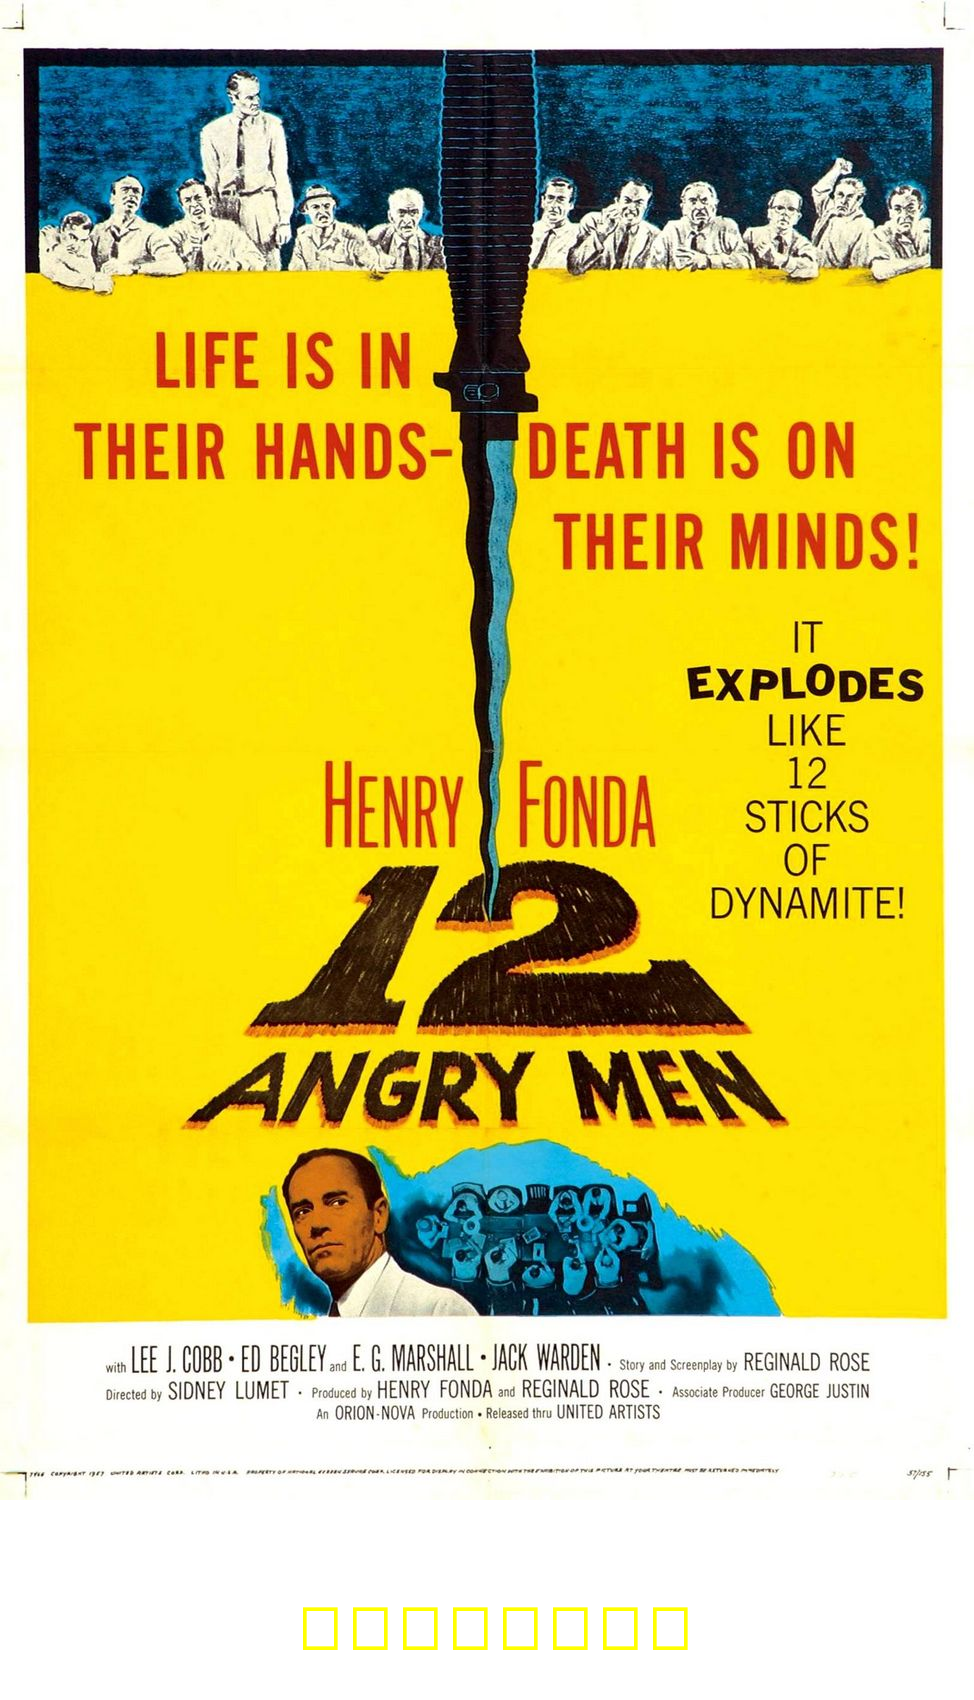
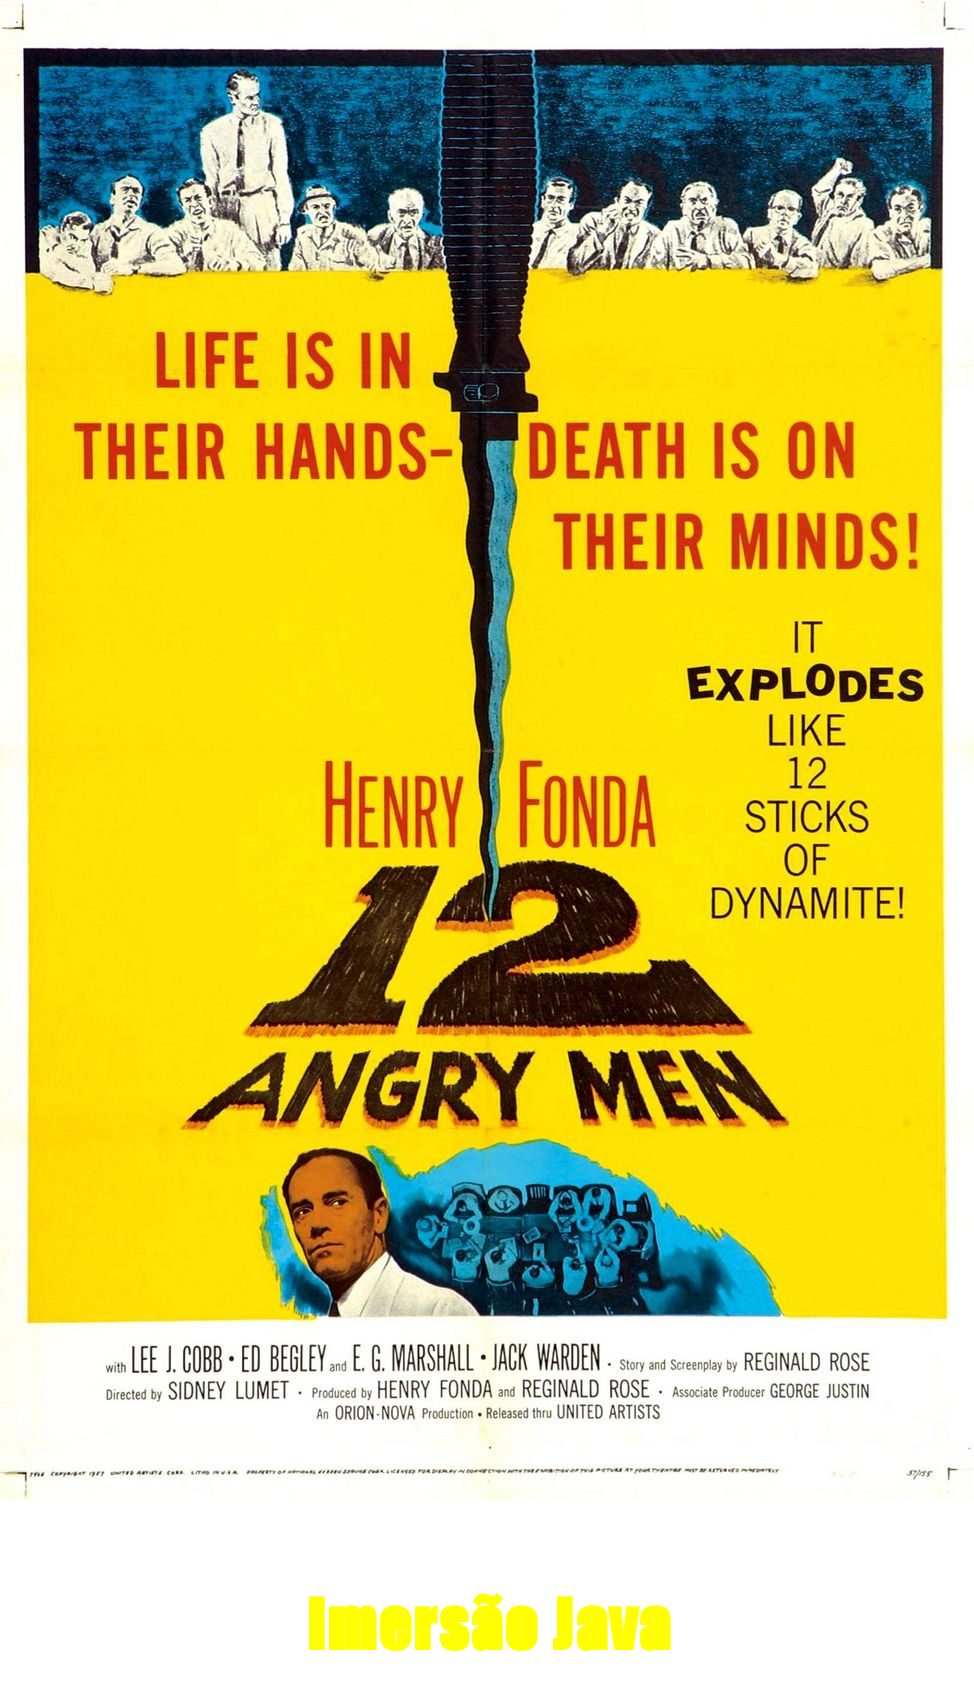
Aula 03 - Ligando as pontas, refatoração e orientação a objetos

Changed region(s): [[0.308, 0.9353, 0.7084, 0.9976]]

diff --git a/src/ImageGenaratorApp.java b/src/ImageGenaratorApp.java
@@ -1,0 +1,95 @@
+import java.io.FileInputStream;
+import java.io.FileNotFoundException;
+import java.io.IOException;
+import java.io.InputStream;
+import java.net.URL;
+import java.util.*;
+
+public class ImageGenaratorApp {
+
+    public static void main(String[] args) {
+        String boldFormatCode = "\u001b[1m";
+        String redColorCode = "\u001b[31m";
+        String yellowColorCode = "\u001b[33m";
+        String resetFormatCode = "\u001b[0m";
+
+        // Este properties seria utilizado para recuperar a api-key,
+        // que está salva localmente.
+        Properties properties = getProperties();
+
+        System.out.println("Selecione uma opção:");
+        System.out.println("1-Melhores filmes, 2-Imagens da NASA");
+        Scanner scanner = new Scanner(System.in);
+        String inputOption = scanner.nextLine();
+
+        try {
+            ExtractorEnum extractor = getExtractor(inputOption);
+            String url = extractor.getApiUrl();
+
+            System.out.println("Opção selecionada " + boldFormatCode + " " + yellowColorCode +
+                    "-" + extractor.name() + resetFormatCode + " url " + url);
+
+            // Realizar uma requisição HTTP na API do IMDB
+            ClientHttp clientHttp = new ClientHttp();
+            String json = clientHttp.returnData(url);
+
+            // Extrair o título, poster e classificação dos filmes
+            ContentExtractor contentExtractor = extractor.getContentExtractor();
+            List<Content> contentList = contentExtractor.extractContent(json);
+
+            // Exibir os dados recuperados
+            GeradorDeFigurinhas geradorDeFigurinhas = new GeradorDeFigurinhas();
+
+            for (Content content: contentList){
+                String fileName = content.getTitle();
+                String imageUrl = content.getUrlImage();
+
+                InputStream is = new URL(imageUrl).openStream();
+                geradorDeFigurinhas.criarFigurinha(is, fileName);
+            }
+        } catch (Exception e) {
+            System.out.println(redColorCode + e.getMessage() + resetFormatCode);
+        }
+    }
+
+    public static ExtractorEnum getExtractor(String inputOption) throws Exception{
+        String optionSel = getEnumNameSel(inputOption);
+        return ExtractorEnum.valueOf(optionSel);
+    }
+
+    private static String getEnumNameSel(String inputOption) throws Exception {
+        String optionSel = "";
+        String message = "";
+        try {
+            int inputOptionSelected = Integer.parseInt(inputOption);
+            if (inputOptionSelected > 0 && inputOptionSelected < 3) {
+                optionSel = "NASA";
+                if (inputOptionSelected != 2) {
+                    optionSel = "IMDB";
+                }
+            } else {
+                message = "A opção informada " + inputOption + " não é válida";
+            }
+        } catch (Exception e) {
+            message = "A opção informada " + inputOption + " não é válida";
+        }
+        if (!message.isBlank()) {
+            throw new Exception(message);
+        }
+        return optionSel;
+    }
+
+    public static Properties getProperties()  {
+        Properties props = new Properties();
+        FileInputStream file = null;
+        try {
+            file = new FileInputStream("./properties/.config.properties");
+            props.load(file);
+        } catch (FileNotFoundException e) {
+            e.printStackTrace();
+        } catch (IOException e) {
+            e.printStackTrace();
+        }
+        return props;
+    }
+}

diff --git a/src/GeradorDeFigurinhas.java b/src/GeradorDeFigurinhas.java
@@ -22,12 +22,9 @@ public class GeradorDeFigurinhas {
 
     }
 
-    public void criarFigurinha(InputStream is, String fileName, String rating) throws Exception {
+    public void criarFigurinha(InputStream is, String fileName) throws IOException {
         // leitura da imagem original
-        // InputStream is = new FileInputStream(new File("./entrada/filme.jpg"));
-        // InputStream is = new URL("https://imersao-java-apis.s3.amazonaws.com/TopMovies_2.jpg").openStream();
         BufferedImage originalImage = ImageIO.read(is);
-
         // cria a nova imagem em memória com transparência e novo tamanho
         int newHeight = originalImage.getHeight() + 200;
         BufferedImage newImage = new BufferedImage(originalImage.getWidth(), newHeight, BufferedImage.TRANSLUCENT);
@@ -44,7 +41,8 @@ public class GeradorDeFigurinhas {
                 graphics.setColor(Color.yellow);
                 graphics.setFont(font);
 
-                TextLayout textLayout = new TextLayout(rating, graphics.getFont(), graphics.getFontRenderContext());
+                String title = "Imersão Java";
+                TextLayout textLayout = new TextLayout(title, graphics.getFont(), graphics.getFontRenderContext());
                 double textHeight = newHeight-100;
                 double textWidth = textLayout.getBounds().getWidth();
 
@@ -52,10 +50,8 @@ public class GeradorDeFigurinhas {
                         RenderingHints.VALUE_TEXT_ANTIALIAS_ON);
 
                 // Draw the text in the center of the image
-                graphics.drawString(rating, originalImage.getWidth() / 2 - (int) textWidth / 2,
+                graphics.drawString(title, originalImage.getWidth() / 2 - (int) textWidth / 2,
                         newHeight / 2 + (int) textHeight / 2);
-
-                //graphics.drawString(rating, 190, newHeight-100);
 
                 // salva a nova imagem em um arquivo
                 File directory = new File("./saida");

diff --git a/src/ContentExtractorImdb.java b/src/ContentExtractorImdb.java
@@ -1,0 +1,29 @@
+import java.util.ArrayList;
+import java.util.List;
+import java.util.Map;
+
+public class ContentExtractorImdb implements ContentExtractor{
+
+    @Override
+    public List<Content> extractContent(String json) {
+
+        JsonParser jsonParser = new JsonParser();
+        List<Map<String, String>> attributesList = jsonParser.parser(json);
+
+        List<Content> contentList = new ArrayList<>();
+        if (attributesList != null && !attributesList.isEmpty()) {
+            String fileName = "";
+            String imageUrl = "";
+
+            for (Map<String, String> conteudo: attributesList){
+                fileName = conteudo.get("title");
+                imageUrl = conteudo.get("image");
+                /*String rating = "⭐".repeat((int) Math.floor(Double.parseDouble(content.get("imDbRating"))));
+                String grade = content.get("imDbRating") + " ";*/
+                contentList.add(new Content(fileName, imageUrl));
+            }
+        }
+
+        return contentList;
+    }
+}

diff --git a/src/ClientHttp.java b/src/ClientHttp.java
@@ -1,0 +1,27 @@
+import java.io.IOException;
+import java.net.URI;
+import java.net.http.HttpClient;
+import java.net.http.HttpRequest;
+import java.net.http.HttpResponse;
+
+public class ClientHttp {
+
+    public String returnData(String url){
+        //String url = imdbOptions.get(inputOption) + properties.getProperty("imdb-api-key");
+        //System.out.println(properties.getProperty("imdb-api-key"));
+        //String url = "https://api.mocki.io/v2/549a5d8b";
+        String body = "";
+
+        try {
+            HttpClient httpClient = HttpClient.newHttpClient();
+            HttpRequest httpRequest = HttpRequest.newBuilder(URI.create(url)).GET().build();
+            HttpResponse<String> response = httpClient.send(httpRequest,
+                    HttpResponse.BodyHandlers.ofString());
+            body = response.body();
+        } catch (IOException | InterruptedException e) {
+            throw new RuntimeException("Não existe conteúdo na URL " + url);
+        }
+
+        return body;
+    }
+}

diff --git a/src/ContentExtractorNasa.java b/src/ContentExtractorNasa.java
@@ -1,0 +1,27 @@
+import java.util.ArrayList;
+import java.util.List;
+import java.util.Map;
+
+public class ContentExtractorNasa implements ContentExtractor {
+
+    @Override
+    public List<Content> extractContent(String json) {
+
+        JsonParser jsonParser = new JsonParser();
+        List<Map<String, String>> attributesList = jsonParser.parser(json);
+
+        List<Content> contentList = new ArrayList<>();
+        if (attributesList != null && !attributesList.isEmpty()) {
+            String fileName = "";
+            String imageUrl = "";
+
+            for (Map<String, String> conteudo: attributesList){
+                fileName = conteudo.get("title");
+                imageUrl = conteudo.get("url");
+                contentList.add(new Content(fileName, imageUrl));
+            }
+        }
+
+        return contentList;
+    }
+}

diff --git a/src/ExtractorEnum.java b/src/ExtractorEnum.java
@@ -1,0 +1,27 @@
+public enum ExtractorEnum {
+
+    IMDB("https://api.mocki.io/v2/549a5d8b") {
+        @Override
+        public ContentExtractor getContentExtractor() {
+            return new ContentExtractorImdb();
+        }
+    },
+    NASA("https://api.mocki.io/v2/549a5d8b/NASA-APOD") {
+        @Override
+        public ContentExtractor getContentExtractor() {
+            return new ContentExtractorNasa();
+        }
+    };
+
+    private String apiUrl;
+
+    ExtractorEnum(String apiUrl) {
+        this.apiUrl = apiUrl;
+    }
+
+    public String getApiUrl() {
+        return apiUrl;
+    }
+
+    public abstract ContentExtractor getContentExtractor();
+}

diff --git a/src/Content.java b/src/Content.java
@@ -1,0 +1,18 @@
+public class Content {
+
+    private final String title;
+    private final String urlImage;
+
+    public Content(String title, String urlImage) {
+        this.title = title;
+        this.urlImage = urlImage;
+    }
+
+    public String getTitle() {
+        return title;
+    }
+
+    public String getUrlImage() {
+        return urlImage;
+    }
+}

diff --git a/src/ContentExtractor.java b/src/ContentExtractor.java
@@ -1,0 +1,7 @@
+import java.util.List;
+
+public interface ContentExtractor {
+
+    List<Content> extractContent(String json);
+
+}
